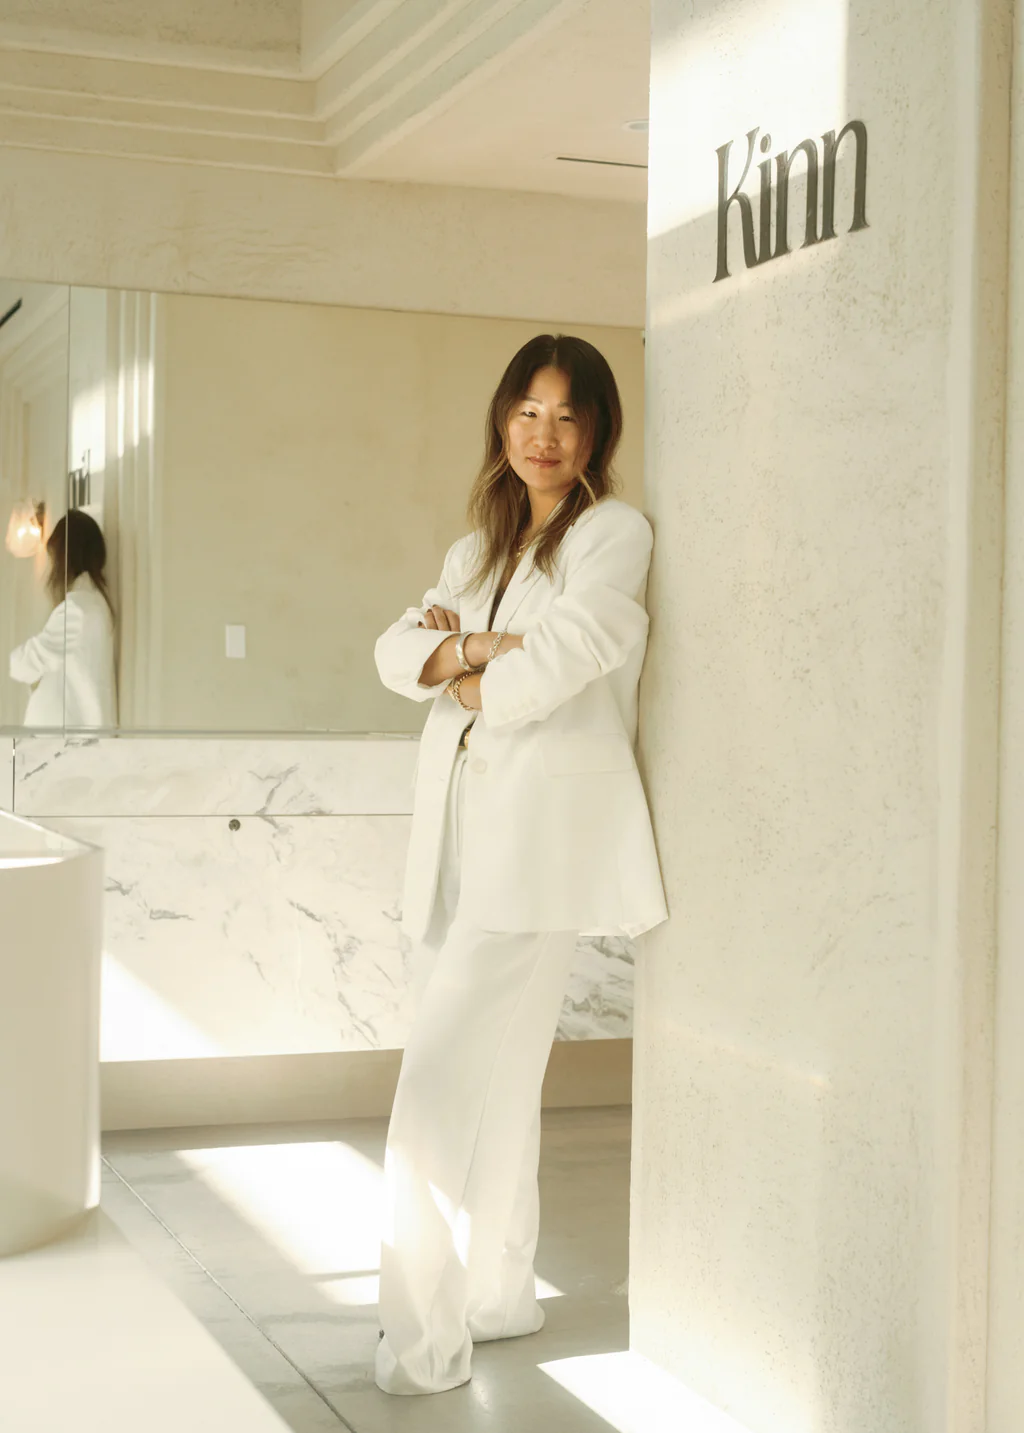
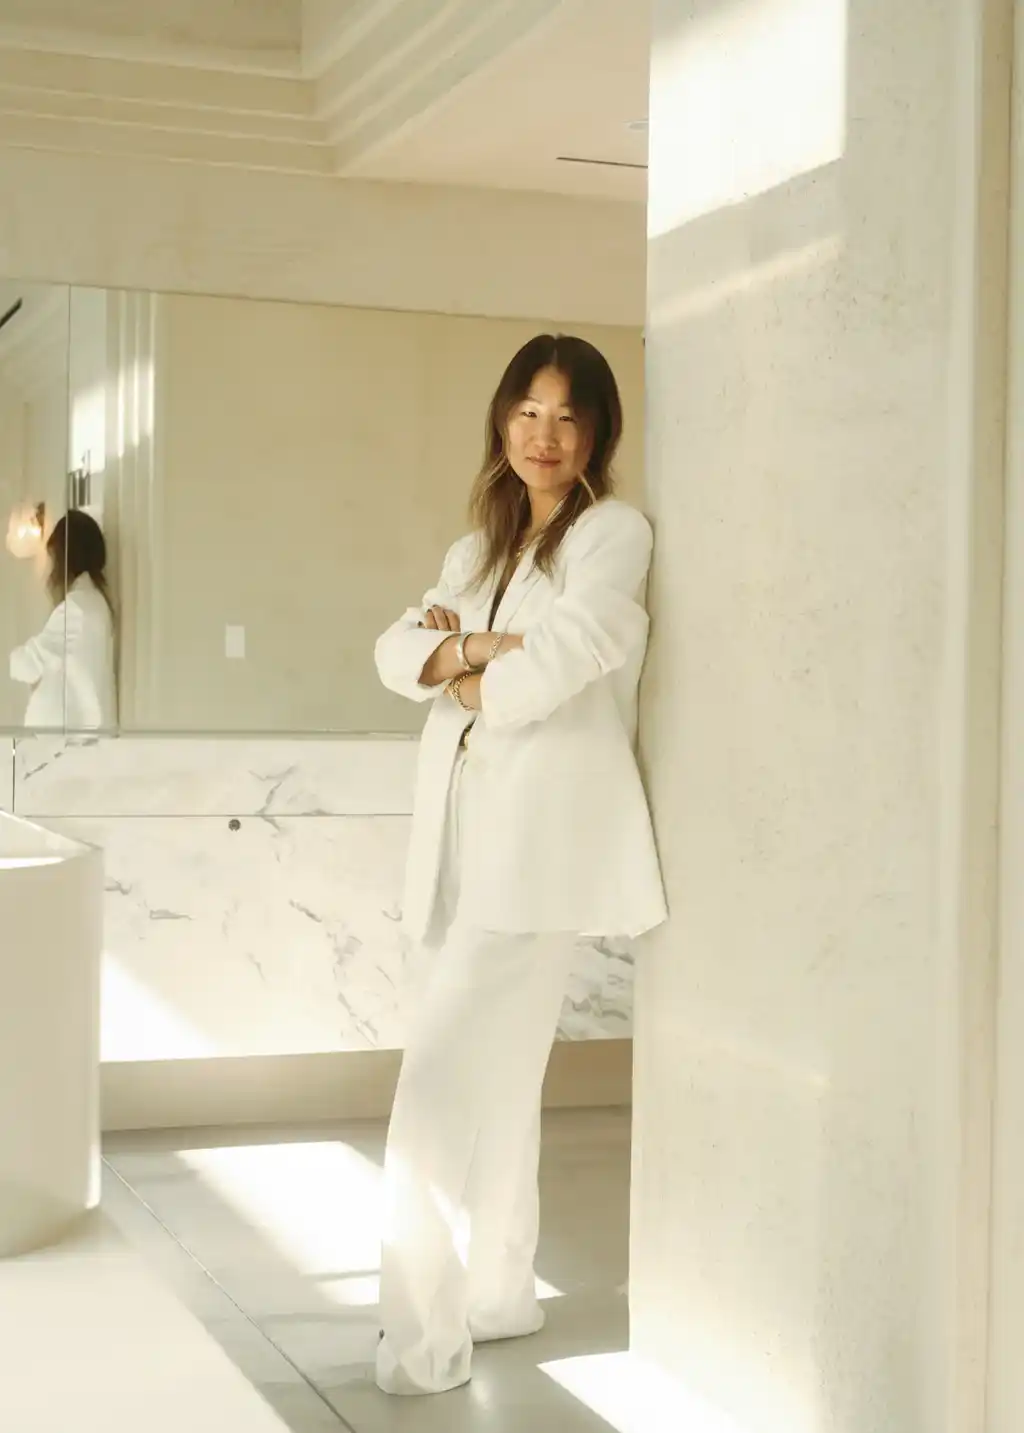
Update

Changed region(s): [[0.6875, 0.0614, 0.875, 0.2149]]

diff --git a/xbozorgi/frontend/components/footersection.tsx b/xbozorgi/frontend/components/footersection.tsx
@@ -12,23 +12,8 @@ const Page: PageEl = (props: {} & { [key: string]: any }, refresh, getProps, onL
     <footer className="footer" style={{ direction: "ltr" }}>
       <div className="footer-top">
         <div className="footer-logo">
-          <a onClick={() => Router.push("/fa")}>
-            <svg
-              width="96"
-              height="41"
-              viewBox="0 0 96 41"
-              fill="none"
-              xmlns="http://www.w3.org/2000/svg"
-            >
-              <path
-                d="M0 0.557796C0 0.642006 0.0157895 0.715691 0.031579 0.715691C0.194737 0.715691 1.44211 0.952534 1.60526 1.01043C2.26316 1.2578 3.05263 1.94727 3.32632 2.51569C3.81579 3.51569 4.09474 5.44727 4.21053 8.58411C4.27895 10.4367 4.27895 30.342 4.21053 32.242C4.09474 35.4525 3.80526 37.4104 3.3 38.3736C3.06316 38.8262 2.53684 39.3315 2.04211 39.5736C1.63158 39.7788 0.836842 39.9999 0.305263 40.0578C0.0105263 40.0894 0 40.0946 0 40.2473V40.3999H6.28947H12.5789V40.2473C12.5789 40.0999 12.5737 40.0946 11.9842 39.9525C10.4684 39.5894 9.79474 39.1052 9.26316 38.0052C8.67368 36.7788 8.5 35.442 8.41579 31.4525C8.34737 28.2157 8.37895 21.1683 8.46316 20.8052C8.55263 20.421 8.67368 20.2052 8.98947 19.8631C9.67369 19.1262 11.1053 18.3736 12.2474 18.1578C12.9158 18.0315 14.2632 18.0841 15.1368 18.2631C17.5947 18.7788 18.9421 19.921 19.7316 22.1631C19.9842 22.8683 20.2263 23.8525 20.5211 25.321C20.8421 26.9104 20.9895 27.9052 21.2368 30.0841C21.5632 32.9946 21.8316 34.6788 22.2158 36.2052C22.6789 38.0473 23.2895 39.4262 23.9737 40.1841L24.1684 40.3999H37.2421H50.3158V40.2683C50.3158 40.1262 50.3421 40.1367 49.6684 39.9999C48.8316 39.8367 47.7737 39.3631 47.3316 38.9578C46.6947 38.3788 46.3895 37.2315 46.2632 34.9367C46.1947 33.7157 46.1947 24.3157 46.2632 23.1631C46.4316 20.342 46.9947 18.0999 47.9263 16.542C49.4895 13.9315 52.3211 12.4262 55.2 12.6631C56.6368 12.7841 57.6842 13.2052 58.5421 14.021C59.2789 14.7262 59.7105 15.5788 59.9421 16.7894C60.179 18.0104 60.1842 18.3367 60.1842 27.321C60.1842 35.2525 60.179 35.8894 60.0895 36.442C59.9211 37.4999 59.6158 38.3788 59.2526 38.8367C58.8421 39.3525 57.8211 39.7894 56.2789 40.1157C56.1895 40.1315 56.1579 40.1788 56.1579 40.2683V40.3999H67.0053H77.8474L77.8316 40.2578C77.8158 40.1262 77.7895 40.1157 77.3421 40.0262C76.379 39.842 75.2947 39.3631 74.8474 38.9315C74.1632 38.2631 73.8947 37.0262 73.7842 34.0841C73.7105 32.1473 73.7526 23.5736 73.8421 22.5841C73.9158 21.721 74.1105 20.4315 74.2947 19.6262C75.1947 15.5894 77.9263 12.9841 81.5789 12.6631C82.2632 12.6052 83.1895 12.6683 83.8263 12.821C85.3158 13.1736 86.4737 14.0999 87.0789 15.421C87.3 15.8999 87.3947 16.242 87.5263 16.9946C87.7263 18.1788 87.7421 19.121 87.7263 27.8473C87.7053 35.5052 87.6947 36.2525 87.6158 36.6631C87.3842 37.7946 87.1 38.4999 86.7105 38.921C86.2474 39.4157 85.2684 39.821 83.8053 40.1157C83.7158 40.1315 83.6842 40.1736 83.6842 40.2683V40.3999H89.7105H95.7368V40.2683C95.7368 40.1946 95.7053 40.1262 95.6737 40.1157C95.6368 40.1104 95.3474 40.0367 95.0263 39.9631C94.6263 39.8631 94.2632 39.7315 93.8474 39.5262C92.8421 39.0262 92.4842 38.5736 92.1895 37.4525C91.9263 36.4578 91.9316 36.6578 91.8947 26.7946C91.8579 16.6946 91.8737 17.1999 91.5737 15.9104C90.9053 13.042 89.2 11.4262 86.2632 10.8894C85.879 10.821 85.4737 10.7999 84.5 10.7999C83.4158 10.7999 83.1421 10.8157 82.5632 10.9157C80.8158 11.2315 79.4105 11.7631 78.1789 12.5894C76.2842 13.8578 75.0053 15.442 74.1263 17.6104C73.8211 18.3683 73.7263 18.3788 73.7632 17.6525C73.779 17.3525 73.8158 15.8841 73.8474 14.3841C73.9 11.9104 73.8947 11.6473 73.8211 11.5315L73.7368 11.3999H69.9474H66.1579V11.5262C66.1579 11.642 66.1842 11.6578 66.4632 11.6894C67.5737 11.821 68.2368 12.0631 68.7158 12.5315C69.2684 13.0736 69.4421 13.7157 69.5316 15.5841C69.6105 17.2999 69.5684 36.2841 69.479 36.9788C69.2316 38.9841 68.5737 39.6631 66.9421 39.5999C66.4632 39.5841 66.3526 39.5631 66.0421 39.4157C65.6158 39.2157 65.2211 38.842 65.0263 38.4473C64.8421 38.0894 64.6053 37.1525 64.5316 36.4788C64.4947 36.1894 64.4579 35.8788 64.4368 35.7946C64.4211 35.7052 64.3895 31.5999 64.3737 26.6631C64.3316 17.0736 64.3421 17.4262 64.0737 16.1104C63.4368 12.9683 61.4368 11.1841 58.1474 10.8262C57.4158 10.742 56.2895 10.7578 55.5263 10.8473C52.0526 11.2788 49.1947 13.0473 47.4632 15.8367C47.1579 16.321 46.6526 17.3578 46.4737 17.8631C46.4053 18.0473 46.3211 18.1894 46.2842 18.1894C46.1947 18.1894 46.1947 18.1894 46.2632 15.6104C46.2895 14.5525 46.3158 13.2052 46.3211 12.6157C46.3316 11.6315 46.3211 11.5367 46.2316 11.4683C46.1579 11.4157 45.4316 11.3999 42.3842 11.3999H38.6316V11.5262C38.6316 11.642 38.6579 11.6578 38.9368 11.6894C39.5316 11.7578 40.2316 11.921 40.5105 12.0578C40.6684 12.1367 40.9368 12.3315 41.1053 12.4894C41.6368 12.9788 41.8316 13.5262 41.9526 14.8367C42.0368 15.7578 42.0842 34.9841 42.0053 36.2525C41.9105 37.6946 41.6842 38.3894 41.1053 38.9841C40.7632 39.3315 40.3895 39.5367 39.9 39.642C38.2947 39.9788 36.9684 39.1525 36.6053 37.5894C36.3474 36.4683 36.3526 36.7999 36.3211 23.7788L36.2895 11.5999L36.1632 11.4999C36.0474 11.4052 35.9053 11.3999 32.3368 11.3999H28.6316V11.5525C28.6316 11.6999 28.6474 11.7104 28.8842 11.7367C29.7105 11.8315 30.1368 11.9262 30.4579 12.0841C31.1105 12.4052 31.6263 13.0999 31.8421 13.9578C31.9105 14.2262 31.9632 14.6946 32 15.3683C32.0684 16.7052 32.0684 36.1578 32 36.7683C31.8 38.5157 31.1316 39.4262 30.0053 39.4946C29.2 39.542 28.7947 39.2262 28.0947 38.0315C27.7158 37.3788 27.5211 36.9262 27.1789 35.8999C26.6316 34.2262 26.3474 32.9841 25.8158 29.8631C24.6421 23.021 24.1316 21.5315 22.3421 19.7367C20.9895 18.3788 19.4316 17.6473 17.0263 17.2473C16.2684 17.121 14.9789 16.9788 14.3842 16.9631C14.1474 16.9578 13.9579 16.9473 13.9632 16.9473C13.9684 16.942 14.4211 16.7315 14.9632 16.4841C16.2579 15.8841 16.8421 15.5631 17.9158 14.8367C20.5053 13.0841 21.8263 11.842 23.0211 10.0315C23.9789 8.57885 24.8474 6.82622 25.5263 4.95253C25.9421 3.7999 26.2 3.22622 26.5105 2.742C27.2263 1.64727 28.1211 0.984112 29.1579 0.784111C29.6158 0.694637 29.6316 0.684113 29.6316 0.542007V0.399902H25H20.3684V0.531479C20.3684 0.605164 20.3842 0.663059 20.4105 0.663059C20.6684 0.668324 21.5158 0.836742 21.7474 0.926216C22.3526 1.15253 22.9474 1.72095 23.2895 2.3999C23.4316 2.68411 23.6526 3.3578 23.7474 3.79464C23.8526 4.29464 23.8368 6.00517 23.7211 6.54727C23.3053 8.47359 22.1895 10.3683 20.4211 12.142C19.2368 13.3315 18.2368 14.0999 16.6105 15.0683C15.2684 15.8683 14 16.4683 12.5895 16.9736C12.0684 17.1631 9.68421 17.8894 8.80526 18.1315L8.42105 18.2367L8.41053 15.621C8.38421 8.82095 8.46842 6.65253 8.81579 4.58411C9.25263 2.02095 10 1.15253 12.0842 0.784111C12.5684 0.699902 12.5789 0.694637 12.5789 0.547268V0.399902H6.28947H0V0.557796Z"
-                fill="currentColor"
-              ></path>
-              <path
-                d="M33.0539 1.98401C32.4276 2.08928 31.8276 2.48928 31.475 3.04191C31.0487 3.69454 30.9802 4.62086 31.3066 5.31559C31.5223 5.77875 31.7381 6.04717 32.1223 6.32612C32.6855 6.74717 33.4381 6.87349 34.1013 6.66823C34.5434 6.53138 34.8223 6.35244 35.1487 6.01033C36.0539 5.05244 36.0539 3.56823 35.1487 2.67349C34.8223 2.35244 34.6592 2.24717 34.2645 2.0998C33.9066 1.96823 33.4329 1.92086 33.0539 1.98401Z"
-                fill="currentColor"
-              ></path>
-            </svg>
+          <a onClick={() => Router.push("/en")}>
+            <img src="/kinnpic/ab-black.webp" />
           </a>
         </div>
 
@@ -66,24 +51,10 @@ const Page: PageEl = (props: {} & { [key: string]: any }, refresh, getProps, onL
         </div>
       </div>
 
-      <div className="footer-bottom">
+      <div className="footer-bottom" style={{zoom:0.7}}>
        
         <a onClick={() => Router.push(z.root)}>
-          <svg
-            className="footer-end-logo"
-            viewBox="0 0 96 41"
-            fill="none"
-            xmlns="http://www.w3.org/2000/svg"
-          >
-            <path
-              d="M0 0.557796C0 0.642006 0.0157895 0.715691 0.031579 0.715691C0.194737 0.715691 1.44211 0.952534 1.60526 1.01043C2.26316 1.2578 3.05263 1.94727 3.32632 2.51569C3.81579 3.51569 4.09474 5.44727 4.21053 8.58411C4.27895 10.4367 4.27895 30.342 4.21053 32.242C4.09474 35.4525 3.80526 37.4104 3.3 38.3736C3.06316 38.8262 2.53684 39.3315 2.04211 39.5736C1.63158 39.7788 0.836842 39.9999 0.305263 40.0578C0.0105263 40.0894 0 40.0946 0 40.2473V40.3999H6.28947H12.5789V40.2473C12.5789 40.0999 12.5737 40.0946 11.9842 39.9525C10.4684 39.5894 9.79474 39.1052 9.26316 38.0052C8.67368 36.7788 8.5 35.442 8.41579 31.4525C8.34737 28.2157 8.37895 21.1683 8.46316 20.8052C8.55263 20.421 8.67368 20.2052 8.98947 19.8631C9.67369 19.1262 11.1053 18.3736 12.2474 18.1578C12.9158 18.0315 14.2632 18.0841 15.1368 18.2631C17.5947 18.7788 18.9421 19.921 19.7316 22.1631C19.9842 22.8683 20.2263 23.8525 20.5211 25.321C20.8421 26.9104 20.9895 27.9052 21.2368 30.0841C21.5632 32.9946 21.8316 34.6788 22.2158 36.2052C22.6789 38.0473 23.2895 39.4262 23.9737 40.1841L24.1684 40.3999H37.2421H50.3158V40.2683C50.3158 40.1262 50.3421 40.1367 49.6684 39.9999C48.8316 39.8367 47.7737 39.3631 47.3316 38.9578C46.6947 38.3788 46.3895 37.2315 46.2632 34.9367C46.1947 33.7157 46.1947 24.3157 46.2632 23.1631C46.4316 20.342 46.9947 18.0999 47.9263 16.542C49.4895 13.9315 52.3211 12.4262 55.2 12.6631C56.6368 12.7841 57.6842 13.2052 58.5421 14.021C59.2789 14.7262 59.7105 15.5788 59.9421 16.7894C60.179 18.0104 60.1842 18.3367 60.1842 27.321C60.1842 35.2525 60.179 35.8894 60.0895 36.442C59.9211 37.4999 59.6158 38.3788 59.2526 38.8367C58.8421 39.3525 57.8211 39.7894 56.2789 40.1157C56.1895 40.1315 56.1579 40.1788 56.1579 40.2683V40.3999H67.0053H77.8474L77.8316 40.2578C77.8158 40.1262 77.7895 40.1157 77.3421 40.0262C76.379 39.842 75.2947 39.3631 74.8474 38.9315C74.1632 38.2631 73.8947 37.0262 73.7842 34.0841C73.7105 32.1473 73.7526 23.5736 73.8421 22.5841C73.9158 21.721 74.1105 20.4315 74.2947 19.6262C75.1947 15.5894 77.9263 12.9841 81.5789 12.6631C82.2632 12.6052 83.1895 12.6683 83.8263 12.821C85.3158 13.1736 86.4737 14.0999 87.0789 15.421C87.3 15.8999 87.3947 16.242 87.5263 16.9946C87.7263 18.1788 87.7421 19.121 87.7263 27.8473C87.7053 35.5052 87.6947 36.2525 87.6158 36.6631C87.3842 37.7946 87.1 38.4999 86.7105 38.921C86.2474 39.4157 85.2684 39.821 83.8053 40.1157C83.7158 40.1315 83.6842 40.1736 83.6842 40.2683V40.3999H89.7105H95.7368V40.2683C95.7368 40.1946 95.7053 40.1262 95.6737 40.1157C95.6368 40.1104 95.3474 40.0367 95.0263 39.9631C94.6263 39.8631 94.2632 39.7315 93.8474 39.5262C92.8421 39.0262 92.4842 38.5736 92.1895 37.4525C91.9263 36.4578 91.9316 36.6578 91.8947 26.7946C91.8579 16.6946 91.8737 17.1999 91.5737 15.9104C90.9053 13.042 89.2 11.4262 86.2632 10.8894C85.879 10.821 85.4737 10.7999 84.5 10.7999C83.4158 10.7999 83.1421 10.8157 82.5632 10.9157C80.8158 11.2315 79.4105 11.7631 78.1789 12.5894C76.2842 13.8578 75.0053 15.442 74.1263 17.6104C73.8211 18.3683 73.7263 18.3788 73.7632 17.6525C73.779 17.3525 73.8158 15.8841 73.8474 14.3841C73.9 11.9104 73.8947 11.6473 73.8211 11.5315L73.7368 11.3999H69.9474H66.1579V11.5262C66.1579 11.642 66.1842 11.6578 66.4632 11.6894C67.5737 11.821 68.2368 12.0631 68.7158 12.5315C69.2684 13.0736 69.4421 13.7157 69.5316 15.5841C69.6105 17.2999 69.5684 36.2841 69.479 36.9788C69.2316 38.9841 68.5737 39.6631 66.9421 39.5999C66.4632 39.5841 66.3526 39.5631 66.0421 39.4157C65.6158 39.2157 65.2211 38.842 65.0263 38.4473C64.8421 38.0894 64.6053 37.1525 64.5316 36.4788C64.4947 36.1894 64.4579 35.8788 64.4368 35.7946C64.4211 35.7052 64.3895 31.5999 64.3737 26.6631C64.3316 17.0736 64.3421 17.4262 64.0737 16.1104C63.4368 12.9683 61.4368 11.1841 58.1474 10.8262C57.4158 10.742 56.2895 10.7578 55.5263 10.8473C52.0526 11.2788 49.1947 13.0473 47.4632 15.8367C47.1579 16.321 46.6526 17.3578 46.4737 17.8631C46.4053 18.0473 46.3211 18.1894 46.2842 18.1894C46.1947 18.1894 46.1947 18.1894 46.2632 15.6104C46.2895 14.5525 46.3158 13.2052 46.3211 12.6157C46.3316 11.6315 46.3211 11.5367 46.2316 11.4683C46.1579 11.4157 45.4316 11.3999 42.3842 11.3999H38.6316V11.5262C38.6316 11.642 38.6579 11.6578 38.9368 11.6894C39.5316 11.7578 40.2316 11.921 40.5105 12.0578C40.6684 12.1367 40.9368 12.3315 41.1053 12.4894C41.6368 12.9788 41.8316 13.5262 41.9526 14.8367C42.0368 15.7578 42.0842 34.9841 42.0053 36.2525C41.9105 37.6946 41.6842 38.3894 41.1053 38.9841C40.7632 39.3315 40.3895 39.5367 39.9 39.642C38.2947 39.9788 36.9684 39.1525 36.6053 37.5894C36.3474 36.4683 36.3526 36.7999 36.3211 23.7788L36.2895 11.5999L36.1632 11.4999C36.0474 11.4052 35.9053 11.3999 32.3368 11.3999H28.6316V11.5525C28.6316 11.6999 28.6474 11.7104 28.8842 11.7367C29.7105 11.8315 30.1368 11.9262 30.4579 12.0841C31.1105 12.4052 31.6263 13.0999 31.8421 13.9578C31.9105 14.2262 31.9632 14.6946 32 15.3683C32.0684 16.7052 32.0684 36.1578 32 36.7683C31.8 38.5157 31.1316 39.4262 30.0053 39.4946C29.2 39.542 28.7947 39.2262 28.0947 38.0315C27.7158 37.3788 27.5211 36.9262 27.1789 35.8999C26.6316 34.2262 26.3474 32.9841 25.8158 29.8631C24.6421 23.021 24.1316 21.5315 22.3421 19.7367C20.9895 18.3788 19.4316 17.6473 17.0263 17.2473C16.2684 17.121 14.9789 16.9788 14.3842 16.9631C14.1474 16.9578 13.9579 16.9473 13.9632 16.9473C13.9684 16.942 14.4211 16.7315 14.9632 16.4841C16.2579 15.8841 16.8421 15.5631 17.9158 14.8367C20.5053 13.0841 21.8263 11.842 23.0211 10.0315C23.9789 8.57885 24.8474 6.82622 25.5263 4.95253C25.9421 3.7999 26.2 3.22622 26.5105 2.742C27.2263 1.64727 28.1211 0.984112 29.1579 0.784111C29.6158 0.694637 29.6316 0.684113 29.6316 0.542007V0.399902H25H20.3684V0.531479C20.3684 0.605164 20.3842 0.663059 20.4105 0.663059C20.6684 0.668324 21.5158 0.836742 21.7474 0.926216C22.3526 1.15253 22.9474 1.72095 23.2895 2.3999C23.4316 2.68411 23.6526 3.3578 23.7474 3.79464C23.8526 4.29464 23.8368 6.00517 23.7211 6.54727C23.3053 8.47359 22.1895 10.3683 20.4211 12.142C19.2368 13.3315 18.2368 14.0999 16.6105 15.0683C15.2684 15.8683 14 16.4683 12.5895 16.9736C12.0684 17.1631 9.68421 17.8894 8.80526 18.1315L8.42105 18.2367L8.41053 15.621C8.38421 8.82095 8.46842 6.65253 8.81579 4.58411C9.25263 2.02095 10 1.15253 12.0842 0.784111C12.5684 0.699902 12.5789 0.694637 12.5789 0.547268V0.399902H6.28947H0V0.557796Z"
-              fill="currentColor"
-            ></path>
-            <path
-              d="M33.0539 1.98401C32.4276 2.08928 31.8276 2.48928 31.475 3.04191C31.0487 3.69454 30.9802 4.62086 31.3066 5.31559C31.5223 5.77875 31.7381 6.04717 32.1223 6.32612C32.6855 6.74717 33.4381 6.87349 34.1013 6.66823C34.5434 6.53138 34.8223 6.35244 35.1487 6.01033C36.0539 5.05244 36.0539 3.56823 35.1487 2.67349C34.8223 2.35244 34.6592 2.24717 34.2645 2.0998C33.9066 1.96823 33.4329 1.92086 33.0539 1.98401Z"
-              fill="currentColor"
-            ></path>
-          </svg>
+           <img src="/kinnpic/ab-black.webp" />
         </a>
       </div>
 

diff --git a/xbozorgi/frontend/components/navbar.tsx b/xbozorgi/frontend/components/navbar.tsx
@@ -27,7 +27,6 @@ const Navbar: PageEl = (
   ]
 
 
-
   const toggleMenu = () => {
     props.menuOpen = !props.menuOpen
     props.isMobile = !props.isMobile
@@ -81,7 +80,7 @@ const Navbar: PageEl = (
               fontSize="large"
             />
 
-           
+
           </div>
         </div>
 
@@ -99,27 +98,12 @@ const Navbar: PageEl = (
 
           <div className="nav-center">
             <a onClick={() => Router.push(z.root)}>
-              <svg
-                width="96"
-                height="41"
-                viewBox="0 0 96 41"
-                fill="none"
-                xmlns="http://www.w3.org/2000/svg"
-              >
-                <path
-                  d="M0 0.557796C0 0.642006 0.0157895 0.715691 0.031579 0.715691C0.194737 0.715691 1.44211 0.952534 1.60526 1.01043C2.26316 1.2578 3.05263 1.94727 3.32632 2.51569C3.81579 3.51569 4.09474 5.44727 4.21053 8.58411C4.27895 10.4367 4.27895 30.342 4.21053 32.242C4.09474 35.4525 3.80526 37.4104 3.3 38.3736C3.06316 38.8262 2.53684 39.3315 2.04211 39.5736C1.63158 39.7788 0.836842 39.9999 0.305263 40.0578C0.0105263 40.0894 0 40.0946 0 40.2473V40.3999H6.28947H12.5789V40.2473C12.5789 40.0999 12.5737 40.0946 11.9842 39.9525C10.4684 39.5894 9.79474 39.1052 9.26316 38.0052C8.67368 36.7788 8.5 35.442 8.41579 31.4525C8.34737 28.2157 8.37895 21.1683 8.46316 20.8052C8.55263 20.421 8.67368 20.2052 8.98947 19.8631C9.67369 19.1262 11.1053 18.3736 12.2474 18.1578C12.9158 18.0315 14.2632 18.0841 15.1368 18.2631C17.5947 18.7788 18.9421 19.921 19.7316 22.1631C19.9842 22.8683 20.2263 23.8525 20.5211 25.321C20.8421 26.9104 20.9895 27.9052 21.2368 30.0841C21.5632 32.9946 21.8316 34.6788 22.2158 36.2052C22.6789 38.0473 23.2895 39.4262 23.9737 40.1841L24.1684 40.3999H37.2421H50.3158V40.2683C50.3158 40.1262 50.3421 40.1367 49.6684 39.9999C48.8316 39.8367 47.7737 39.3631 47.3316 38.9578C46.6947 38.3788 46.3895 37.2315 46.2632 34.9367C46.1947 33.7157 46.1947 24.3157 46.2632 23.1631C46.4316 20.342 46.9947 18.0999 47.9263 16.542C49.4895 13.9315 52.3211 12.4262 55.2 12.6631C56.6368 12.7841 57.6842 13.2052 58.5421 14.021C59.2789 14.7262 59.7105 15.5788 59.9421 16.7894C60.179 18.0104 60.1842 18.3367 60.1842 27.321C60.1842 35.2525 60.179 35.8894 60.0895 36.442C59.9211 37.4999 59.6158 38.3788 59.2526 38.8367C58.8421 39.3525 57.8211 39.7894 56.2789 40.1157C56.1895 40.1315 56.1579 40.1788 56.1579 40.2683V40.3999H67.0053H77.8474L77.8316 40.2578C77.8158 40.1262 77.7895 40.1157 77.3421 40.0262C76.379 39.842 75.2947 39.3631 74.8474 38.9315C74.1632 38.2631 73.8947 37.0262 73.7842 34.0841C73.7105 32.1473 73.7526 23.5736 73.8421 22.5841C73.9158 21.721 74.1105 20.4315 74.2947 19.6262C75.1947 15.5894 77.9263 12.9841 81.5789 12.6631C82.2632 12.6052 83.1895 12.6683 83.8263 12.821C85.3158 13.1736 86.4737 14.0999 87.0789 15.421C87.3 15.8999 87.3947 16.242 87.5263 16.9946C87.7263 18.1788 87.7421 19.121 87.7263 27.8473C87.7053 35.5052 87.6947 36.2525 87.6158 36.6631C87.3842 37.7946 87.1 38.4999 86.7105 38.921C86.2474 39.4157 85.2684 39.821 83.8053 40.1157C83.7158 40.1315 83.6842 40.1736 83.6842 40.2683V40.3999H89.7105H95.7368V40.2683C95.7368 40.1946 95.7053 40.1262 95.6737 40.1157C95.6368 40.1104 95.3474 40.0367 95.0263 39.9631C94.6263 39.8631 94.2632 39.7315 93.8474 39.5262C92.8421 39.0262 92.4842 38.5736 92.1895 37.4525C91.9263 36.4578 91.9316 36.6578 91.8947 26.7946C91.8579 16.6946 91.8737 17.1999 91.5737 15.9104C90.9053 13.042 89.2 11.4262 86.2632 10.8894C85.879 10.821 85.4737 10.7999 84.5 10.7999C83.4158 10.7999 83.1421 10.8157 82.5632 10.9157C80.8158 11.2315 79.4105 11.7631 78.1789 12.5894C76.2842 13.8578 75.0053 15.442 74.1263 17.6104C73.8211 18.3683 73.7263 18.3788 73.7632 17.6525C73.779 17.3525 73.8158 15.8841 73.8474 14.3841C73.9 11.9104 73.8947 11.6473 73.8211 11.5315L73.7368 11.3999H69.9474H66.1579V11.5262C66.1579 11.642 66.1842 11.6578 66.4632 11.6894C67.5737 11.821 68.2368 12.0631 68.7158 12.5315C69.2684 13.0736 69.4421 13.7157 69.5316 15.5841C69.6105 17.2999 69.5684 36.2841 69.479 36.9788C69.2316 38.9841 68.5737 39.6631 66.9421 39.5999C66.4632 39.5841 66.3526 39.5631 66.0421 39.4157C65.6158 39.2157 65.2211 38.842 65.0263 38.4473C64.8421 38.0894 64.6053 37.1525 64.5316 36.4788C64.4947 36.1894 64.4579 35.8788 64.4368 35.7946C64.4211 35.7052 64.3895 31.5999 64.3737 26.6631C64.3316 17.0736 64.3421 17.4262 64.0737 16.1104C63.4368 12.9683 61.4368 11.1841 58.1474 10.8262C57.4158 10.742 56.2895 10.7578 55.5263 10.8473C52.0526 11.2788 49.1947 13.0473 47.4632 15.8367C47.1579 16.321 46.6526 17.3578 46.4737 17.8631C46.4053 18.0473 46.3211 18.1894 46.2842 18.1894C46.1947 18.1894 46.1947 18.1894 46.2632 15.6104C46.2895 14.5525 46.3158 13.2052 46.3211 12.6157C46.3316 11.6315 46.3211 11.5367 46.2316 11.4683C46.1579 11.4157 45.4316 11.3999 42.3842 11.3999H38.6316V11.5262C38.6316 11.642 38.6579 11.6578 38.9368 11.6894C39.5316 11.7578 40.2316 11.921 40.5105 12.0578C40.6684 12.1367 40.9368 12.3315 41.1053 12.4894C41.6368 12.9788 41.8316 13.5262 41.9526 14.8367C42.0368 15.7578 42.0842 34.9841 42.0053 36.2525C41.9105 37.6946 41.6842 38.3894 41.1053 38.9841C40.7632 39.3315 40.3895 39.5367 39.9 39.642C38.2947 39.9788 36.9684 39.1525 36.6053 37.5894C36.3474 36.4683 36.3526 36.7999 36.3211 23.7788L36.2895 11.5999L36.1632 11.4999C36.0474 11.4052 35.9053 11.3999 32.3368 11.3999H28.6316V11.5525C28.6316 11.6999 28.6474 11.7104 28.8842 11.7367C29.7105 11.8315 30.1368 11.9262 30.4579 12.0841C31.1105 12.4052 31.6263 13.0999 31.8421 13.9578C31.9105 14.2262 31.9632 14.6946 32 15.3683C32.0684 16.7052 32.0684 36.1578 32 36.7683C31.8 38.5157 31.1316 39.4262 30.0053 39.4946C29.2 39.542 28.7947 39.2262 28.0947 38.0315C27.7158 37.3788 27.5211 36.9262 27.1789 35.8999C26.6316 34.2262 26.3474 32.9841 25.8158 29.8631C24.6421 23.021 24.1316 21.5315 22.3421 19.7367C20.9895 18.3788 19.4316 17.6473 17.0263 17.2473C16.2684 17.121 14.9789 16.9788 14.3842 16.9631C14.1474 16.9578 13.9579 16.9473 13.9632 16.9473C13.9684 16.942 14.4211 16.7315 14.9632 16.4841C16.2579 15.8841 16.8421 15.5631 17.9158 14.8367C20.5053 13.0841 21.8263 11.842 23.0211 10.0315C23.9789 8.57885 24.8474 6.82622 25.5263 4.95253C25.9421 3.7999 26.2 3.22622 26.5105 2.742C27.2263 1.64727 28.1211 0.984112 29.1579 0.784111C29.6158 0.694637 29.6316 0.684113 29.6316 0.542007V0.399902H25H20.3684V0.531479C20.3684 0.605164 20.3842 0.663059 20.4105 0.663059C20.6684 0.668324 21.5158 0.836742 21.7474 0.926216C22.3526 1.15253 22.9474 1.72095 23.2895 2.3999C23.4316 2.68411 23.6526 3.3578 23.7474 3.79464C23.8526 4.29464 23.8368 6.00517 23.7211 6.54727C23.3053 8.47359 22.1895 10.3683 20.4211 12.142C19.2368 13.3315 18.2368 14.0999 16.6105 15.0683C15.2684 15.8683 14 16.4683 12.5895 16.9736C12.0684 17.1631 9.68421 17.8894 8.80526 18.1315L8.42105 18.2367L8.41053 15.621C8.38421 8.82095 8.46842 6.65253 8.81579 4.58411C9.25263 2.02095 10 1.15253 12.0842 0.784111C12.5684 0.699902 12.5789 0.694637 12.5789 0.547268V0.399902H6.28947H0V0.557796Z"
-                  fill="currentColor"
-                ></path>
-                <path
-                  d="M33.0539 1.98401C32.4276 2.08928 31.8276 2.48928 31.475 3.04191C31.0487 3.69454 30.9802 4.62086 31.3066 5.31559C31.5223 5.77875 31.7381 6.04717 32.1223 6.32612C32.6855 6.74717 33.4381 6.87349 34.1013 6.66823C34.5434 6.53138 34.8223 6.35244 35.1487 6.01033C36.0539 5.05244 36.0539 3.56823 35.1487 2.67349C34.8223 2.35244 34.6592 2.24717 34.2645 2.0998C33.9066 1.96823 33.4329 1.92086 33.0539 1.98401Z"
-                  fill="currentColor"
-                ></path>
-              </svg>
+              {props.isScrolled? <img src="/kinnpic/ab-black.webp" style={{ height: 50 }} /> : <img src="/kinnpic/ab-white.webp" style={{ height: 50 }} />}
             </a>
           </div>
 
           <div className="mobile-left-icon" onClick={toggleMenu}>
-            
+
 
             {props.menuOpen ? (
               <span className="close-icon">✕</span>
@@ -133,9 +117,8 @@ const Navbar: PageEl = (
       {props.menuOpen && props.isMobile && (
         <div className="mobile-menu-wrapper">
           <div
-            className={`mobile-menu main-menu ${
-              props.isMobileShopOpen ? "slide-left" : "slide-in"
-            }`}
+            className={`mobile-menu main-menu ${props.isMobileShopOpen ? "slide-left" : "slide-in"
+              }`}
           >
             {mobileTopics.map(({ label, path }) => (
               <div

diff --git a/xbozorgi/pages/[lang]/about.tsx b/xbozorgi/pages/[lang]/about.tsx
@@ -20,7 +20,7 @@ const Page: PageEl = (props: {} & { [key: string]: any }, refresh, getProps, onL
           </div>
           <div className="about-text">
             <h1>About</h1>
-            <h2>Kinn</h2>
+            <h2>AB Jewelry</h2>
             <p>
               Founded in 2015, Asma Bozorgi was born from a passion for detail,
               elegance, and handcrafted artistry. In our atelier, each garment

diff --git a/xbozorgi/frontend/data/collections.ts b/xbozorgi/frontend/data/collections.ts
@@ -91,7 +91,7 @@ const collections = [
   },
   {
     id: "kinn-classics",
-    title: "Kinn Classics",
+    title: "AB Classics",
     products: [
       {
         title: " June Round Stud Earrings Diamond",
